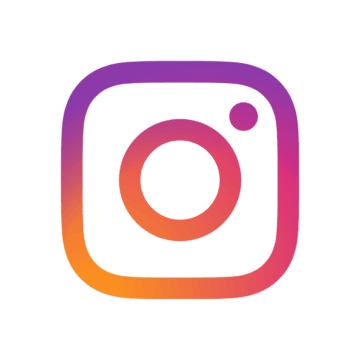
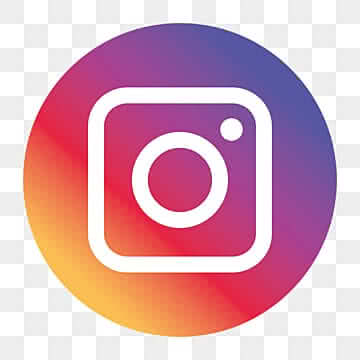
feat: ícone Instagram como botão circular sem texto

diff --git a/src/css/index.css b/src/css/index.css
@@ -211,20 +211,20 @@ html, body {
 .insta-badge {
   width: 100%; max-width: 420px;
   display: flex; justify-content: flex-end;
-  margin-bottom: 6px;
+  margin-bottom: 8px;
 }
 .insta-badge-link {
-  display: inline-flex; align-items: center; gap: 6px;
-  color: var(--text-muted, #888);
+  display: inline-flex;
   text-decoration: none;
-  font-size: 12px; font-weight: 500; letter-spacing: 0.02em;
-  opacity: 0.85;
-  transition: opacity 0.2s;
+  transition: transform 0.2s, opacity 0.2s;
+  opacity: 0.9;
 }
-.insta-badge-link:hover { opacity: 1; }
+.insta-badge-link:hover { transform: scale(1.1); opacity: 1; }
+.insta-badge-link:active { transform: scale(0.95); }
 .insta-badge-icon {
-  width: 22px; height: 22px;
+  width: 36px; height: 36px;
   object-fit: contain;
+  border-radius: 50%;
 }
 
 /* ===== NAV CARDS GRID ===== */

diff --git a/index.html b/index.html
@@ -52,9 +52,8 @@
 
       <!-- ===== NAVIGATION CARDS GRID ===== -->
       <div class="insta-badge fade-up" style="animation-delay: 0.45s;">
-        <a href="https://www.instagram.com/huntersmanpower/" target="_blank" rel="noopener noreferrer" class="insta-badge-link">
+        <a href="https://www.instagram.com/huntersmanpower/" target="_blank" rel="noopener noreferrer" class="insta-badge-link" aria-label="Instagram @huntersmanpower">
           <img src="/instagram-icon.png" alt="Instagram" class="insta-badge-icon">
-          <span>@huntersmanpower</span>
         </a>
       </div>
       <nav class="nav-grid fade-up" style="animation-delay: 0.5s;">
